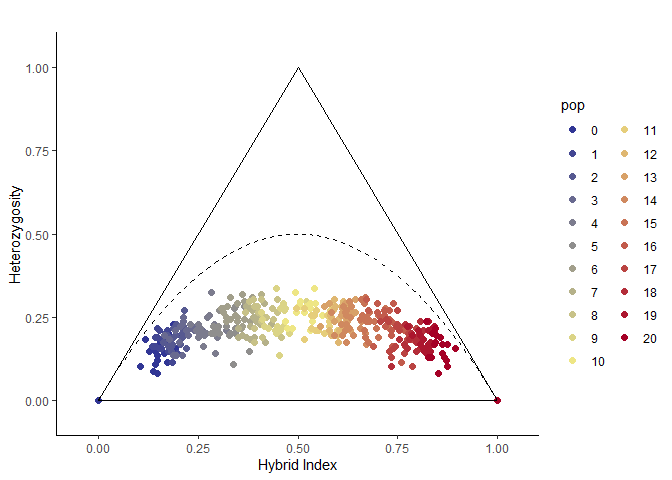
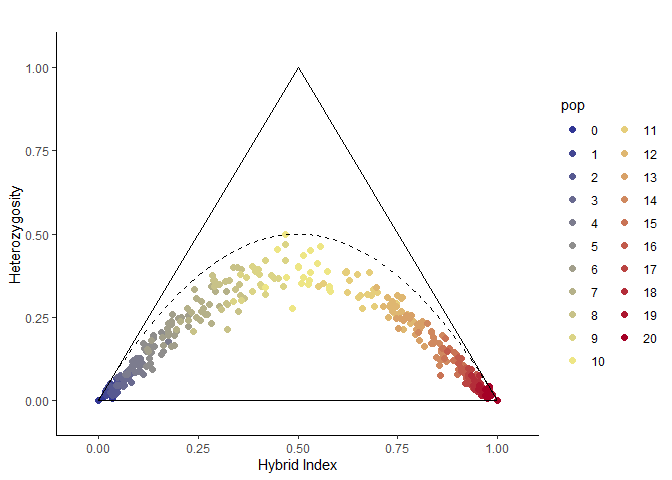
Update README

Changed region(s): [[0.1562, 0.4688, 0.75, 0.8438]]

diff --git a/README.md b/README.md
@@ -8,7 +8,7 @@
 <!-- badges: end -->
 
 triangulaR is a package for calculating hybrid indices, heterozygosity,
-and building triangle plots from genomic data
+and building triangle plots
 
 ## Installation
 
@@ -60,13 +60,14 @@ data
 #> Object size: 6.2 Mb
 #> 0 percent missing data
 #> *****        *****         *****
+
 # Or, use example vcfR object
 example.vcfR
 #> ***** Object of Class vcfR *****
 #> 420 samples
 #> 1 CHROMs
-#> 1,605 variants
-#> Object size: 5.5 Mb
+#> 1,215 variants
+#> Object size: 4.2 Mb
 #> 0 percent missing data
 #> *****        *****         *****
 ```
@@ -116,7 +117,7 @@ frequency difference threshold to see how this value affects results.
 ``` r
 # Create a new vcfR object composed only of sites above the given allele frequency difference threshold
 example.vcfR.diff <- alleleFreqDiff(vcfR = example.vcfR, pm = example.popmap, p1 = 0, p2 = 20, difference = 0.6)
-#> [1] "148 sites passed allele frequency difference threshold"
+#> [1] "216 sites passed allele frequency difference threshold"
 ```
 
 #### Step 4: Calculate hybrid index and heterozygosity for each sample
@@ -128,7 +129,7 @@ calculated.
 ``` r
 # Calculate hybrid index and heterozygosity for each sample. Values are returned in a data.frame
 hi.het <- hybridIndex(vcfR = example.vcfR.diff, pm = example.popmap, p1 = 0, p2 = 20)
-#> [1] "calculating hybrid indices and heterozygosities based on 148 sites"
+#> [1] "calculating hybrid indices and heterozygosities based on 216 sites"
 ```
 
 #### Step 5: Visualize results as a triangle plot
@@ -154,14 +155,3 @@ missing.plot(hi.het)
 ```
 
 <img src="man/figures/README-unnamed-chunk-6-1.png" width="100%" />
-
-You’ll still need to render `README.Rmd` regularly, to keep `README.md`
-up-to-date. `devtools::build_readme()` is handy for this. You could also
-use GitHub Actions to re-render `README.Rmd` every time you push. An
-example workflow can be found here:
-<https://github.com/r-lib/actions/tree/v1/examples>.
-
-You can also embed plots, for example:
-
-In that case, don’t forget to commit and push the resulting figure
-files, so they display on GitHub and CRAN.
